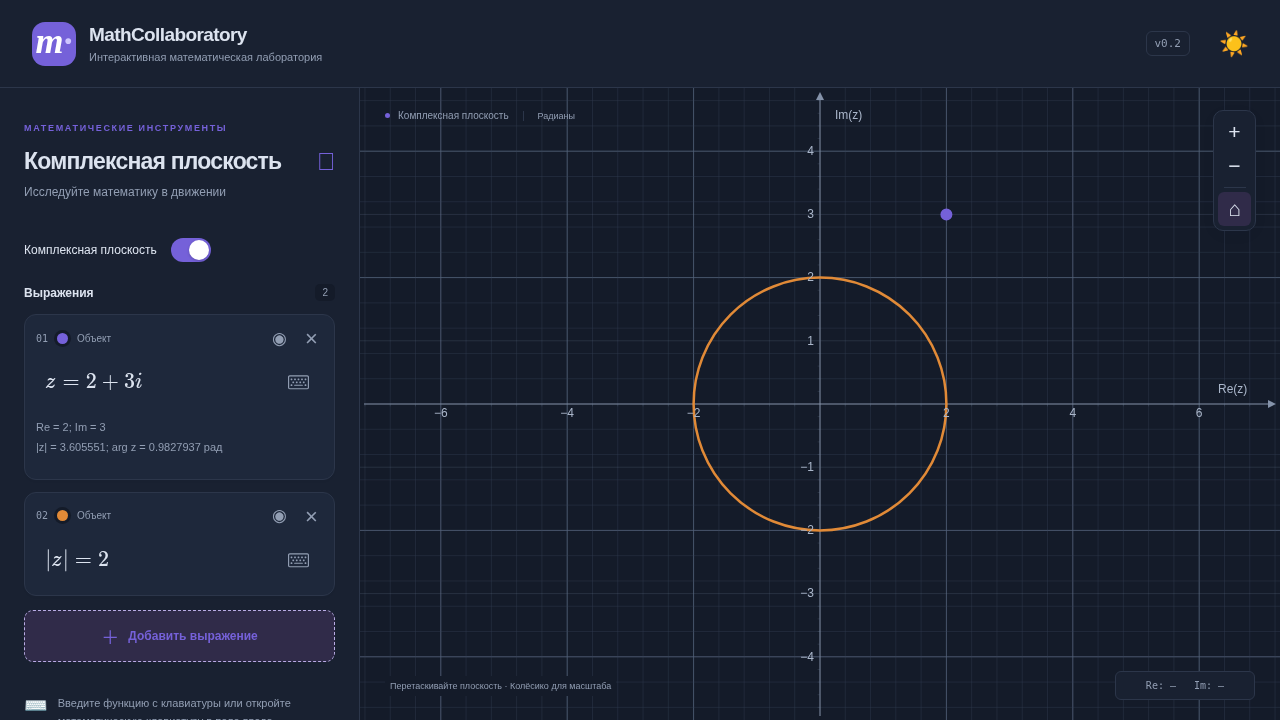
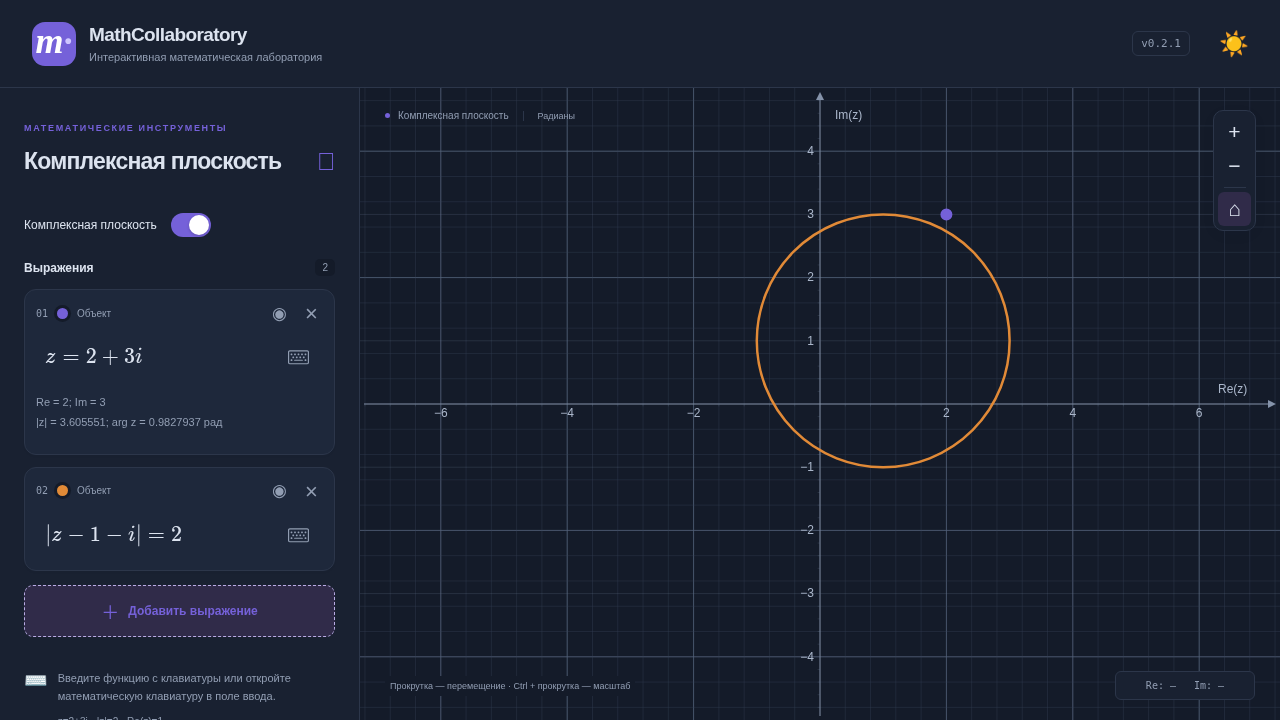
fix: smooth plane navigation and parse circle offsets structurally

diff --git a/tests/navigation.spec.ts b/tests/navigation.spec.ts
@@ -1,0 +1,63 @@
+import { test, expect, type Page } from '@playwright/test';
+const graph=(p:Page)=>p.locator('.graph');
+const view=async(p:Page)=>JSON.parse((await graph(p).getAttribute('data-viewport'))!) as number[];
+const span=(v:number[])=>v[1]-v[3];
+async function wheel(p:Page, options:Record<string,unknown>){
+  const box=(await graph(p).boundingBox())!;
+  return graph(p).evaluate((e,options)=>{
+    const event=new WheelEvent('wheel',options);e.dispatchEvent(event);const rect=e.getBoundingClientRect();
+    return [(event.clientX-rect.left)/rect.width,(event.clientY-rect.top)/rect.height];
+  },{deltaX:0,deltaY:10,deltaMode:0,bubbles:true,cancelable:true,clientX:box.x+box.width*.3,clientY:box.y+box.height*.4,...options});
+}
+test.beforeEach(async({page})=>{await page.goto('/');await expect(graph(page)).toHaveAttribute('data-viewport',/.+/);});
+for(const mode of ['real','complex']){
+  test(`${mode}: wheel pans, Ctrl wheel zooms at cursor, viewport persists`,async({page})=>{
+    if(mode==='complex')await page.getByRole('switch',{name:'Комплексная плоскость'}).click();
+    await expect(page.getByText('Исследуйте математику в движении',{exact:true})).toHaveCount(0);
+    const before=await view(page),box=(await graph(page).boundingBox())!;
+    await page.mouse.move(box.x+100,box.y+100);await page.mouse.wheel(40,50);
+    await expect.poll(async()=>(await view(page))[0]).toBeGreaterThan(before[0]);
+    const panned=await view(page);expect(span(panned)).toBeCloseTo(span(before),8);expect(panned[1]).toBeLessThan(before[1]);
+    const anchor=await wheel(page,{ctrlKey:true,deltaY:-2});
+    await expect.poll(async()=>span(await view(page))).toBeLessThan(span(panned));
+    const zoomed=await view(page);expect(span(zoomed)/span(panned)).toBeCloseTo(Math.exp(-.005),8);
+    expect(zoomed[0]+anchor[0]*(zoomed[2]-zoomed[0])).toBeCloseTo(panned[0]+anchor[0]*(panned[2]-panned[0]),7);
+    expect(zoomed[1]-anchor[1]*span(zoomed)).toBeCloseTo(panned[1]-anchor[1]*span(panned),7);
+    await page.reload();await expect(graph(page)).toHaveAttribute('data-viewport',/.+/);
+    expect(span(await view(page))).toBeCloseTo(span(zoomed),7);
+    const toggle=page.getByRole('switch',{name:'Комплексная плоскость'});await toggle.click();await toggle.click();
+    expect(span(await view(page))).toBeCloseTo(span(zoomed),7);
+    const box2=(await graph(page).boundingBox())!;await page.mouse.move(box2.x+80,box2.y+140);await page.mouse.down();await page.mouse.move(box2.x+160,box2.y+170,{steps:6});await page.mouse.up();
+    await expect.poll(async()=>(await view(page))[0]).not.toBe(zoomed[0]);
+    await expect.poll(async()=>graph(page).evaluate(e=>Math.abs(Number((e as HTMLElement).dataset.unitX)/Number((e as HTMLElement).dataset.unitY)-1))).toBeLessThan(1e-8);
+    await page.getByRole('button',{name:'Стандартный масштаб',exact:true}).click();expect(span(await view(page))).toBeCloseTo(10,7);
+  });
+}
+test('deltaMode, burst protection, zoom limits and local event scope',async({page})=>{
+  let before=await view(page);
+  await wheel(page,{deltaMode:1,deltaY:1});await expect.poll(async()=>(await view(page))[1]).toBeLessThan(before[1]);
+  let after=await view(page);const height=(await graph(page).boundingBox())!.height;
+  expect(before[1]-after[1]).toBeCloseTo(16*span(before)/height,7);
+  before=after;await wheel(page,{deltaMode:2,deltaY:1});await expect.poll(async()=>(await view(page))[1]).toBeLessThan(before[1]);
+  after=await view(page);expect(before[1]-after[1]).toBeCloseTo(120*span(before)/height,7);
+  const oldSpan=span(after);
+  await graph(page).evaluate(e=>{for(let i=0;i<100;i++)e.dispatchEvent(new WheelEvent('wheel',{deltaY:1000,ctrlKey:true,cancelable:true,bubbles:true}));});
+  await expect.poll(async()=>span(await view(page))).toBeGreaterThan(oldSpan);
+  expect(span(await view(page))/oldSpan).toBeLessThanOrEqual(1.25000001);
+  await graph(page).evaluate(async e=>{for(let i=0;i<65;i++){e.dispatchEvent(new WheelEvent('wheel',{deltaY:-1e9,ctrlKey:true,cancelable:true}));await new Promise(requestAnimationFrame);}});
+  expect(span(await view(page))).toBeGreaterThanOrEqual(1e-4*(1-1e-8));
+  await page.getByRole('button',{name:'Приблизить',exact:true}).click();expect(span(await view(page))).toBeGreaterThanOrEqual(1e-4*(1-1e-8));
+  await graph(page).evaluate(async e=>{for(let i=0;i<120;i++){e.dispatchEvent(new WheelEvent('wheel',{deltaY:1e9,ctrlKey:true,cancelable:true}));await new Promise(requestAnimationFrame);}});
+  expect(span(await view(page))).toBeLessThanOrEqual(1e7*(1+1e-8));
+  const cancelled=await graph(page).evaluate(e=>!e.dispatchEvent(new WheelEvent('wheel',{deltaY:1,cancelable:true,bubbles:true})));
+  expect(cancelled).toBe(true);
+  expect(await page.locator('.app-header').evaluate(e=>e.dispatchEvent(new WheelEvent('wheel',{deltaY:1,ctrlKey:true,cancelable:true,bubbles:true})))).toBe(true);
+});
+test('new circle syntax renders, invalid equations retain input and previous mode',async({page})=>{
+  await page.getByRole('switch',{name:'Комплексная плоскость'}).click();
+  for(const source of ['|z-i|=2','|z-1-i|=2','|z+2i|=3','|z-(1+i)|=2','|z|=2','|z^2|=2']){
+    await page.locator('math-field').first().evaluate((e,s)=>{const f=e as HTMLElement&{value:string};f.value=s;f.dispatchEvent(new InputEvent('input',{bubbles:true}));},source);
+    if(source.includes('^'))await expect(page.getByRole('alert')).toContainText('нелинейные');else await expect(page.getByRole('alert')).toHaveCount(0);
+  }
+  await page.reload();await expect(page.getByRole('alert')).toContainText('нелинейные');
+});

diff --git a/src/components/Graph.tsx b/src/components/Graph.tsx
@@ -1,5 +1,7 @@
 import { useEffect, useRef, useState } from 'react';
 import JXG from 'jsxgraph';
+import { attachWheelNavigation } from './wheelNavigation';
+import { constrainViewport } from './planeNavigation';
 import { drawComplexObjects, type ComplexPlot } from '../complex/render';
 import { REAL_VIEW, COMPLEX_VIEW, validViewport, type Viewport } from '../state/view';
 import type { ParsedExpression } from '../math/expression';
@@ -19,7 +21,7 @@ export function Graph({ plots, parameters, theme, mode = 'real', viewport, onVie
     const b = JXG.JSXGraph.initBoard(host.current!, {
       boundingbox: bounds.current, keepaspectratio: true, axis: true,
       showCopyright: false, showNavigation: false, showInfobox: false,
-      pan: { enabled: true, needShift: false }, zoom: { wheel: true, needShift: false, factorX: 1.2, factorY: 1.2 },
+      pan: { enabled: true, needShift: false }, zoom: { wheel: false, min: 1e-8, max: 1e8, needShift: false, factorX: 1.2, factorY: 1.2 },
       defaultAxes: { x: { name: mode === 'complex' ? 'Re(z)' : 'x', withLabel: true, label: { position: 'rt', offset: mode === 'complex' ? [-50, 15] : [-15, 15], strokeColor: dark ? '#aab6ca' : '#67758a' }, strokeColor: dark ? '#8593aa' : '#8693a8', ticks: { strokeColor: dark ? '#65758d' : '#b5c0cf', label: { strokeColor: dark ? '#aab6ca' : '#67758a' }, minorTicks: 4, minorHeight: 4, minTicksDistance: 12 } }, y: { name: mode === 'complex' ? 'Im(z)' : 'y', withLabel: true, label: { position: 'rt', offset: [15, -15], strokeColor: dark ? '#aab6ca' : '#67758a' }, strokeColor: dark ? '#8593aa' : '#8693a8', ticks: { strokeColor: dark ? '#65758d' : '#b5c0cf', label: { strokeColor: dark ? '#aab6ca' : '#67758a' }, minorTicks: 4, minorHeight: 4, minTicksDistance: 12 } } },
     });
     // JSXGraph derives the spacing from adaptive axis ticks; both grids are
@@ -34,8 +36,11 @@ export function Graph({ plots, parameters, theme, mode = 'real', viewport, onVie
     grid.rendNode.setAttribute('data-grid', 'major');
     grid.minorGrid.rendNode.setAttribute('data-grid', 'minor');
     board.current = b;
+    const detachWheel = attachWheelNavigation(host.current!, b);
     const changed = () => {
       const view = b.getBoundingBox();
+      const bounded = constrainViewport(view);
+      if (bounded !== view) { b.setBoundingBox(bounded,true,'update'); return; }
       if (host.current) {
         host.current.dataset.unitX = String(b.unitX); host.current.dataset.unitY = String(b.unitY);
         host.current.dataset.viewport = JSON.stringify(view);
@@ -54,7 +59,7 @@ export function Graph({ plots, parameters, theme, mode = 'real', viewport, onVie
     });
     observer.observe(host.current!.parentElement!);
     b.on('move', (event: Event) => { const pos = b.getUsrCoordsOfMouse(event as MouseEvent); setCursor([pos[0],pos[1]]); });
-    return () => { b.off('boundingbox', changed); bounds.current = b.getBoundingBox(); observer.disconnect(); curves.current=[]; geometry.current=[]; JXG.JSXGraph.freeBoard(b); board.current=null; };
+    return () => { detachWheel(); b.off('boundingbox', changed); bounds.current = b.getBoundingBox(); observer.disconnect(); curves.current=[]; geometry.current=[]; JXG.JSXGraph.freeBoard(b); board.current=null; };
   }, [theme]);
   useEffect(() => {
     const b = board.current!;
@@ -83,6 +88,6 @@ export function Graph({ plots, parameters, theme, mode = 'real', viewport, onVie
     <div className="graph" ref={host} onMouseLeave={() => setCursor(null)} />
     <div className="graph-caption"><span className="live-dot" />{mode === 'complex' ? 'Комплексная плоскость' : 'Координатная плоскость'} <span className="radians">Радианы</span></div>
     <div className="graph-tools"><button aria-label="Приблизить" title="Приблизить" onClick={() => board.current?.zoomIn()}>+</button><button aria-label="Отдалить" title="Отдалить" onClick={() => board.current?.zoomOut()}>−</button><div /><button aria-label="Стандартный масштаб" title="Стандартный масштаб" onClick={reset}>⌂</button></div>
-    <div className="graph-bottom"><span>Перетаскивайте плоскость · Колёсико для масштаба</span><output>{cursor ? `${mode === 'complex' ? 'Re' : 'x'}: ${cursor[0].toFixed(2)}   ${mode === 'complex' ? 'Im' : 'y'}: ${cursor[1].toFixed(2)}` : mode === 'complex' ? 'Re: —   Im: —' : 'x: —   y: —'}</output></div>
+    <div className="graph-bottom"><span>Прокрутка — перемещение · Ctrl + прокрутка — масштаб</span><output>{cursor ? `${mode === 'complex' ? 'Re' : 'x'}: ${cursor[0].toFixed(2)}   ${mode === 'complex' ? 'Im' : 'y'}: ${cursor[1].toFixed(2)}` : mode === 'complex' ? 'Re: —   Im: —' : 'x: —   y: —'}</output></div>
   </section>;
 }

diff --git a/src/complex/geometry.ts b/src/complex/geometry.ts
@@ -1,4 +1,5 @@
-import { complexSource, evaluateComplex } from './math';
+import { complex, add, subtract, type MathNode, type Complex } from 'mathjs';
+import { complexSource, evaluateComplex, evaluateComplexNode, parseComplexAst } from './math';
 export interface ComplexCoordinate { re: number; im: number }
 export type ComplexGeometry =
   | { kind: 'point'; value: ComplexCoordinate; modulus: number; argument: number | null }
@@ -17,22 +18,37 @@ export function parseComplexGeometry(latex: string): ComplexGeometry {
     if (rhs.im !== 0) throw new Error('Правая часть геометрического уравнения должна быть вещественной.');
     const line = /^(Re|Im|re|im)\s*\(\s*z\s*\)$/.exec(left);
     if (line) return { kind: 'line', axis: line[1].toLowerCase() as 're'|'im', value: rhs.re };
-    const circle = /^(?:\|\s*(z(?:\s*-\s*.+)?)\s*\||abs\(\s*(z(?:\s*-\s*.+)?)\s*\))$/.exec(left);
-    if (circle) {
+    const node = parseComplexAst(left) as MathNode & { name: string; args: MathNode[]; fn: MathNode };
+    if (node.type === 'FunctionNode' && node.fn.type === 'SymbolNode' && node.name === 'abs' && node.args.length === 1) {
       if (rhs.re < 0) throw new Error('Радиус должен быть неотрицательным.');
-      const body = (circle[1] ?? circle[2]).trim();
-      const offset = body.replace(/^z\s*-\s*/, '');
-      let depth = 0;
-      const wrapped = offset.startsWith('(') && offset.endsWith(')') && [...offset].every((c,index) => {
-        if (c === '(') depth++; if (c === ')') depth--;
-        return depth > 0 || (depth === 0 && index === offset.length-1);
-      });
-      if (body !== 'z' && !wrapped && !/^[+-]?[\d.]+$/.test(offset)) throw new Error('Укажите центр в скобках: |z − (1+i)| = 2.');
-      const center = body === 'z' ? { re: 0, im: 0 } : evaluateComplex(offset);
-      return { kind: 'circle', center: { re: center.re, im: center.im }, radius: rhs.re };
+      const offset = circleOffset(node.args[0]);
+      return { kind: 'circle', center: { re: offset.re === 0 ? 0 : -offset.re, im: offset.im === 0 ? 0 : -offset.im }, radius: rhs.re };
     }
     throw new Error('Поддерживаются z = число, |z − (центр)| = радиус, Re(z) = число и Im(z) = число.');
   }
   const value = evaluateComplex(parts.length === 2 ? parts[1] : source);
   return { kind: 'point', value: { re: value.re, im: value.im }, modulus: Math.hypot(value.re, value.im), argument: value.re === 0 && value.im === 0 ? null : Math.atan2(value.im, value.re) };
+}
+
+// Accept exactly one +z plus a constant: do not sample at a few points, which
+// would misclassify nonlinear expressions or conceal unsupported operations.
+function circleOffset(root: MathNode): Complex {
+  function hasZ(node: MathNode) { let found=false; node.traverse(n=>{if(n.type === 'SymbolNode' && (n as MathNode & {name:string}).name === 'z')found=true;}); return found; }
+  function visit(node: MathNode): {coefficient:number; occurrences:number; constant:Complex} {
+    const n=node as MathNode & {name:string;content:MathNode;op:string;args:MathNode[]};
+    if(!hasZ(node))return {coefficient:0,occurrences:0,constant:evaluateComplexNode(node)};
+    if(node.type === 'SymbolNode' && n.name === 'z')return {coefficient:1,occurrences:1,constant:complex(0,0)};
+    if(node.type === 'ParenthesisNode')return visit(n.content);
+    if(node.type === 'OperatorNode' && ['+','-'].includes(n.op) && n.args.length<=2){
+      const a=visit(n.args[0]);
+      if(n.args.length===1)return n.op === '+' ? a : {coefficient:-a.coefficient,occurrences:a.occurrences,constant:complex(-a.constant.re,-a.constant.im)};
+      const b=visit(n.args[1]),sign=n.op==='+'?1:-1;
+      return {coefficient:a.coefficient+sign*b.coefficient,occurrences:a.occurrences+b.occurrences,constant:(sign===1?add(a.constant,b.constant):subtract(a.constant,b.constant)) as Complex};
+    }
+    throw new Error('Для окружности поддерживается только |z + постоянная| = радиус; нелинейные выражения с z недопустимы.');
+  }
+  const result=visit(root);
+  if(result.coefficient!==1 || result.occurrences!==1)throw new Error('В окружности z должен встречаться один раз с коэффициентом +1.');
+  if(!Number.isFinite(result.constant.re)||!Number.isFinite(result.constant.im))throw new Error('Центр окружности не определён или слишком велик.');
+  return result.constant;
 }

diff --git a/src/App.tsx b/src/App.tsx
@@ -33,8 +33,8 @@ export function App() {
   const add = () => updateExpressions(items => [...items, {id:crypto.randomUUID(), latex:'', color:COLORS[items.length%COLORS.length], visible:true}]);
   const rows = isComplex ? complexAnalyzed.map(e => ({...e, parsed:null})) : analyzed.map(e => ({...e, geometry:null}));
   return <div className="app-shell">
-    <header className="app-header"><div className="brand"><span className="brand-mark">m<span>·</span></span><div><strong>MathCollaboratory</strong><span>Интерактивная математическая лаборатория</span></div></div><div className="header-actions"><span className="version">v0.2</span><button className="theme-button" aria-label={state.theme==='light'?'Тёмная тема':'Светлая тема'} title="Переключить тему" onClick={() => setState(s => ({...s,theme:s.theme==='light'?'dark':'light'}))}>{state.theme==='light'?'☾':'☀'}</button></div></header>
-    <main><aside className="sidebar"><div className="module-heading"><span className="eyebrow">МАТЕМАТИЧЕСКИЕ ИНСТРУМЕНТЫ</span><h1>{isComplex ? 'Комплексная плоскость' : 'Графики функций'}<span>↗</span></h1><p>Исследуйте математику в движении</p></div>
+    <header className="app-header"><div className="brand"><span className="brand-mark">m<span>·</span></span><div><strong>MathCollaboratory</strong><span>Интерактивная математическая лаборатория</span></div></div><div className="header-actions"><span className="version">v0.2.1</span><button className="theme-button" aria-label={state.theme==='light'?'Тёмная тема':'Светлая тема'} title="Переключить тему" onClick={() => setState(s => ({...s,theme:s.theme==='light'?'dark':'light'}))}>{state.theme==='light'?'☾':'☀'}</button></div></header>
+    <main><aside className="sidebar"><div className="module-heading"><span className="eyebrow">МАТЕМАТИЧЕСКИЕ ИНСТРУМЕНТЫ</span><h1>{isComplex ? 'Комплексная плоскость' : 'Графики функций'}<span>↗</span></h1></div>
       <button type="button" className="mode-switch" role="switch" aria-checked={isComplex} onClick={()=>setState(s=>({...s,mode:s.mode === 'complex' ? 'real' : 'complex'}))}><span>Комплексная плоскость</span><span className="switch-track" aria-hidden="true"><span className="switch-thumb" /></span></button>
       <div className="section-heading"><h2>Выражения</h2><span>{expressions.length}</span></div>
       <div className="expressions">{rows.map((e,index) => <article className={`expression-card ${e.error?'has-error':''}`} key={e.id}>

diff --git a/src/components/planeNavigation.test.ts b/src/components/planeNavigation.test.ts
@@ -1,0 +1,36 @@
+import { it, expect } from 'vitest';
+import { wheelPixels, navigateViewport, constrainViewport, MIN_SPAN, MAX_SPAN } from './planeNavigation';
+const view:[number,number,number,number]=[-8,5,8,-5];
+it('normalizes pixels, lines, pages, Shift and pathological deltas',()=>{
+  expect(wheelPixels({deltaX:2,deltaY:3,deltaMode:0,shiftKey:false},800,500)).toEqual({x:2,y:3});
+  expect(wheelPixels({deltaX:2,deltaY:3,deltaMode:1,shiftKey:false},800,500)).toEqual({x:32,y:48});
+  expect(wheelPixels({deltaX:0,deltaY:1,deltaMode:2,shiftKey:false},800,500)).toEqual({x:0,y:120});
+  expect(wheelPixels({deltaX:0,deltaY:2,deltaMode:0,shiftKey:true},800,500)).toEqual({x:2,y:0});
+  expect(wheelPixels({deltaX:Infinity,deltaY:NaN,deltaMode:0,shiftKey:false},800,500)).toEqual({x:0,y:0});
+});
+it('pans both axes without changing the span',()=>expect(navigateViewport(view,800,500,40,50,0,[.5,.5])).toEqual([-7.2,4,8.8,-6]));
+it('preserves the cursor anchor and equal units during smooth zoom',()=>{
+  const result=navigateViewport(view,800,500,0,0,-.01,[.25,.75]);
+  expect((result[2]-result[0])/(view[2]-view[0])).toBeCloseTo(Math.exp(-.01));
+  expect(result[0]+.25*(result[2]-result[0])).toBeCloseTo(-4);
+  expect(result[1]-.75*(result[1]-result[3])).toBeCloseTo(-2.5);
+  expect(800/(result[2]-result[0])).toBeCloseTo(500/(result[1]-result[3]));
+});
+it('limits per-frame jumps and total scale in both directions',()=>{
+  let result=navigateViewport(view,800,500,0,0,1e6,[.5,.5]);expect(result[1]-result[3]).toBeCloseTo(12.5);
+  for(let i=0;i<200;i++)result=navigateViewport(result,800,500,0,0,1,[.5,.5]);
+  expect(result[1]-result[3]).toBeCloseTo(MAX_SPAN);
+  for(let i=0;i<200;i++)result=navigateViewport(result,800,500,0,0,-1,[.5,.5]);
+  expect(result[1]-result[3]).toBeCloseTo(MIN_SPAN,10);
+});
+it('constrains native zoom and handles hidden canvases',()=>{
+  expect(constrainViewport([-1e8,1e8,1e8,-1e8])).toEqual([-5e6,5e6,5e6,-5e6]);
+  expect(navigateViewport(view,0,0,1,1,1,[.5,.5])).toBe(view);
+});
+
+it('clamping stays idempotent near large coordinates and tiny spans',()=>{
+  const bounded=constrainViewport([1e9-1e-6,1e9+1e-6,1e9+1e-6,1e9-1e-6]);
+  expect(bounded.every(Number.isFinite)).toBe(true);
+  expect(constrainViewport(bounded)).toBe(bounded);
+  expect(bounded[1]-bounded[3]).toBeCloseTo(MIN_SPAN,5);
+});

diff --git a/src/components/planeNavigation.ts b/src/components/planeNavigation.ts
@@ -1,0 +1,32 @@
+import type { Viewport } from '../state/view';
+export const MIN_SPAN = 1e-4;
+export const MAX_SPAN = 1e7;
+const MAX_CENTER = 1e9;
+const clamp = (x:number, min:number, max:number) => Math.max(min, Math.min(max,x));
+export function constrainViewport(view: Viewport): Viewport {
+  const height=view[1]-view[3], width=view[2]-view[0];
+  const cx=(view[0]+view[2])/2, cy=(view[1]+view[3])/2;
+  // At large coordinates a tiny span loses precision when bounds are
+  // subtracted. Accept a few ULPs rather than repeatedly clamping forever.
+  const tolerance=16*Number.EPSILON*Math.max(1,Math.abs(cx),Math.abs(cy),height);
+  if (height>=MIN_SPAN-tolerance && height<=MAX_SPAN+tolerance && Math.abs(cx)<=MAX_CENTER+tolerance && Math.abs(cy)<=MAX_CENTER+tolerance) return view;
+  const h=clamp(height,MIN_SPAN,MAX_SPAN), w=width*(h/height);
+  const x=clamp(cx,-MAX_CENTER,MAX_CENTER), y=clamp(cy,-MAX_CENTER,MAX_CENTER);
+  return [x-w/2,y+h/2,x+w/2,y-h/2];
+}
+export function wheelPixels(event: Pick<WheelEvent,'deltaX'|'deltaY'|'deltaMode'|'shiftKey'>, width:number, height:number) {
+  const scaleX=event.deltaMode===1?16:event.deltaMode===2?width:1;
+  const scaleY=event.deltaMode===1?16:event.deltaMode===2?height:1;
+  let x=Number.isFinite(event.deltaX)?clamp(event.deltaX*scaleX,-120,120):0;
+  let y=Number.isFinite(event.deltaY)?clamp(event.deltaY*scaleY,-120,120):0;
+  if(event.shiftKey && x===0){x=y;y=0;}
+  return {x,y};
+}
+export function navigateViewport(view:Viewport, width:number, height:number, dx:number, dy:number, logScale:number, anchor:[number,number]):Viewport {
+  if(width<=0 || height<=0)return view;
+  const w=view[2]-view[0],h=view[1]-view[3];
+  const factor=clamp(Math.exp(clamp(logScale,-Math.log(1.25),Math.log(1.25))),MIN_SPAN/h,MAX_SPAN/h);
+  const x=view[0]+clamp(dx,-240,240)*w/width, y=view[1]-clamp(dy,-240,240)*h/height;
+  const ax=clamp(anchor[0],0,1),ay=clamp(anchor[1],0,1);
+  return constrainViewport([x+ax*w*(1-factor),y-ay*h*(1-factor),x+ax*w*(1-factor)+w*factor,y-ay*h*(1-factor)-h*factor]);
+}

diff --git a/src/complex/math.ts b/src/complex/math.ts
@@ -30,12 +30,18 @@ export function complexSource(latex: string): string {
   if (result.includes('\\')) throw new Error('Команда пока не поддерживается. Используйте i, conj, abs, arg, Re, Im.');
   return result;
 }
-export function evaluateComplex(source: string): Complex {
+export function parseComplexAst(source: string): MathNode {
   let open = false;
   source = source.replace(/\|/g, () => { open = !open; return open ? 'abs(' : ')'; });
   if (open) throw new Error('Не закрыт знак модуля.');
   let root: MathNode;
   try { root = parse(source); } catch { throw new Error('Проверьте скобки и операторы комплексного выражения.'); }
+  let nodes = 0;
+  root.traverse(() => { if (++nodes > 150) throw new Error('Выражение слишком сложное.'); });
+  return root;
+}
+export function evaluateComplex(source: string): Complex { return evaluateComplexNode(parseComplexAst(source)); }
+export function evaluateComplexNode(root: MathNode): Complex {
   let count = 0;
   const finite = (z: Complex): Complex => {
     if (!Number.isFinite(z.re) || !Number.isFinite(z.im)) throw new Error('Результат не определён или слишком велик.');

diff --git a/src/components/wheelNavigation.ts b/src/components/wheelNavigation.ts
@@ -1,0 +1,27 @@
+import type JXG from 'jsxgraph';
+import { navigateViewport, wheelPixels } from './planeNavigation';
+// Local, non-passive wheel listener only. Pointer/touch pan and pinch stay in JSXGraph.
+export function attachWheelNavigation(host:HTMLElement, board:JXG.Board) {
+  let frame=0,dx=0,dy=0,logScale=0;
+  let anchor:[number,number]=[.5,.5];
+  const flush=()=>{
+    frame=0;
+    const view=navigateViewport(board.getBoundingBox(),board.canvasWidth,board.canvasHeight,dx,dy,logScale,anchor);
+    dx=dy=logScale=0;
+    board.setBoundingBox(view,true,'update');
+  };
+  const wheel=(event:WheelEvent)=>{
+    if(!event.cancelable)return;
+    const rect=host.getBoundingClientRect();
+    const pixels=wheelPixels(event,rect.width,rect.height);
+    if(pixels.x===0 && pixels.y===0)return;
+    event.preventDefault();
+    if(event.ctrlKey){
+      logScale+=Math.max(-60,Math.min(60,pixels.y))*.0025;
+      anchor=[(event.clientX-rect.left)/rect.width,(event.clientY-rect.top)/rect.height];
+    } else { dx+=pixels.x;dy+=pixels.y; }
+    if(!frame)frame=requestAnimationFrame(flush);
+  };
+  host.addEventListener('wheel',wheel,{passive:false});
+  return ()=>{host.removeEventListener('wheel',wheel);if(frame)cancelAnimationFrame(frame);};
+}

diff --git a/tests/touch-navigation.spec.ts b/tests/touch-navigation.spec.ts
@@ -1,0 +1,14 @@
+import { test, expect } from '@playwright/test';
+test.use({hasTouch:true,isMobile:true,viewport:{width:700,height:900}});
+test('native touchscreen pinch stays in JSXGraph and preserves equal unit scale',async({page})=>{
+  await page.goto('/');const graph=page.locator('.graph');await expect(graph).toHaveAttribute('data-viewport',/.+/);
+  const read=async()=>JSON.parse((await graph.getAttribute('data-viewport'))!);
+  const before=await read(),box=(await graph.boundingBox())!;
+  const client=await page.context().newCDPSession(page);const x=box.x+box.width/2,y=box.y+box.height*.7;
+  const points=(distance:number)=>[{x:x-distance,y,id:1},{x:x+distance,y,id:2}];
+  await client.send('Input.dispatchTouchEvent',{type:'touchStart',touchPoints:points(40)});
+  for(let i=1;i<=8;i++)await client.send('Input.dispatchTouchEvent',{type:'touchMove',touchPoints:points(40+i*12)});
+  await client.send('Input.dispatchTouchEvent',{type:'touchEnd',touchPoints:[]});
+  await expect.poll(async()=>{const v=await read();return v[1]-v[3];}).toBeLessThan(before[1]-before[3]);
+  expect(await graph.evaluate(e=>Math.abs(Number((e as HTMLElement).dataset.unitX)/Number((e as HTMLElement).dataset.unitY)-1))).toBeLessThan(1e-8);
+});

diff --git a/src/styles.css b/src/styles.css
@@ -5,3 +5,5 @@
 .reset-dialog{color:var(--text);margin:auto}.reset-dialog::backdrop{background:#10182d66}
 
 .mode-switch{display:inline-flex;align-items:center;gap:14px;align-self:flex-start;flex-shrink:0;min-height:40px;margin:0 0 14px;padding:0;border:0;background:transparent;color:var(--text);font-size:12px;border-radius:6px}.switch-track{display:block;position:relative;flex:none;width:40px;height:24px;border-radius:999px;background:#c4cbd7;transition:background-color 160ms ease}.switch-thumb{position:absolute;left:2px;top:2px;width:20px;height:20px;border-radius:50%;background:#fff;box-shadow:0 1px 3px #0003;transition:transform 160ms ease}.mode-switch[aria-checked=true] .switch-track{background:var(--accent)}.mode-switch[aria-checked=true] .switch-thumb{transform:translateX(16px)}[data-theme=dark] .mode-switch[aria-checked=false] .switch-track{background:#465269}@media(prefers-reduced-motion:reduce){.switch-track,.switch-thumb{transition:none}}.object-details{font-size:11px;line-height:1.8;color:var(--muted);overflow-wrap:anywhere}
+
+.module-heading{margin-bottom:20px}

diff --git a/src/complex/circles.test.ts b/src/complex/circles.test.ts
@@ -1,0 +1,9 @@
+import { it, expect } from 'vitest';
+import { parseComplexGeometry } from './geometry';
+it.each([
+ ['|z-i|=2',0,1,2],['|z-1-i|=2',1,1,2],['|z+2i|=3',0,-2,3],['|z-(1+i)|=2',1,1,2],['|z|=2',0,0,2],
+ ['|z+2+3i|=4',-2,-3,4],['|z-1+i|=2',1,-1,2],['|z-(1+i)+(2)|=2',-1,1,2],
+ ['abs(z-conj(1+i))=2',1,-1,2],['|z-\\frac{1+i}{2}|=1',.5,.5,1],['|z-(-2-3i)|=2',-2,-3,2],
+ ['|z|=0',0,0,0],['|+(z)+i|=2',0,-1,2],
+])('parses %s structurally',(s,re,im,radius)=>expect(parseComplexGeometry(s as string)).toEqual({kind:'circle',center:{re,im},radius}));
+it.each(['|z^2|=2','|z*z|=2','|1/z|=2','|conj(z)|=2','|z-z+z|=2','|2z|=2','|-z+i|=2','|3+i|=2','|z+1/0|=2','|z|=-1','|z|=i','|z|=z','|z+i|=2=3','|z+foo(1)|=2','|z+import("x")|=2'])('rejects unsafe or unsupported %s',s=>expect(()=>parseComplexGeometry(s)).toThrow());

diff --git a/src/complex/complex.test.ts b/src/complex/complex.test.ts
@@ -30,7 +30,7 @@ describe('Complex geometry', () => {
     expect(parseComplexGeometry('Re(z)=1')).toEqual({kind:'line',axis:'re',value:1});
     expect(parseComplexGeometry('\\operatorname{Im}(z)=-2')).toEqual({kind:'line',axis:'im',value:-2});
   });
-  it.each(['|z|=-1','|z|=i','|z-1+i|=2','|z-(1+i)+(2)|=2','z^2=1','Re(z)=i','z=1=2','z=z+1'])('rejects ambiguous/unsupported geometry %s',s=>expect(()=>parseComplexGeometry(s)).toThrow());
+  it.each(['|z|=-1','|z|=i','z^2=1','Re(z)=i','z=1=2','z=z+1'])('rejects ambiguous/unsupported geometry %s',s=>expect(()=>parseComplexGeometry(s)).toThrow());
 });
 describe('Additive state migration and isolation',()=>{
   it('loads a genuine v0.1.1 save without losing real data',()=>{
